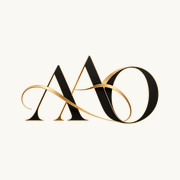
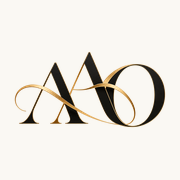
Site: troca o logotipo AAO pela nova versão transparente e aumenta no cabeçalho (#92)
- monograma-aao-v3.webp (fundo transparente, recortado) substitui a v2
- Logo no cabeçalho: 52→62px e 68→84px (telas a partir de 560px)
- Favicons (32/180/512) regerados a partir do novo logo

Claude-Session: https://claude.ai/code/session_01CHqmUyegkexsTC7dxrzNQC

Changed region(s): [[0.0833, 0.2778, 0.9167, 0.7222]]

diff --git a/site/static/css/site.css b/site/static/css/site.css
@@ -123,9 +123,9 @@ h1 em, h2 em { font-style: italic; color: var(--salvia); }
 .topo.is-rolado { border-bottom-color: rgba(90, 74, 66, .14); }
 .topo__in { display: flex; align-items: center; gap: 1rem; min-height: 68px; }
 .marca { display: flex; align-items: center; gap: .6rem; text-decoration: none; color: var(--grafite); margin-right: auto; min-height: 44px; }
-.marca__mono { width: 52px; height: auto; flex: none; }
+.marca__mono { width: 62px; height: auto; flex: none; }
 @media (max-width: 419px) { .marca__mono { display: none; } .marca__nome { max-width: 7em; } }
-@media (min-width: 560px) { .marca__mono { width: 68px; } }
+@media (min-width: 560px) { .marca__mono { width: 84px; } }
 .marca__nome { font-family: var(--fonte-titulo); font-size: 1.08rem; font-weight: 600; line-height: 1.1; letter-spacing: .01em; max-width: 8.5em; }
 .topo__acoes { display: flex; align-items: center; gap: .5rem; }
 .menu-botao {
